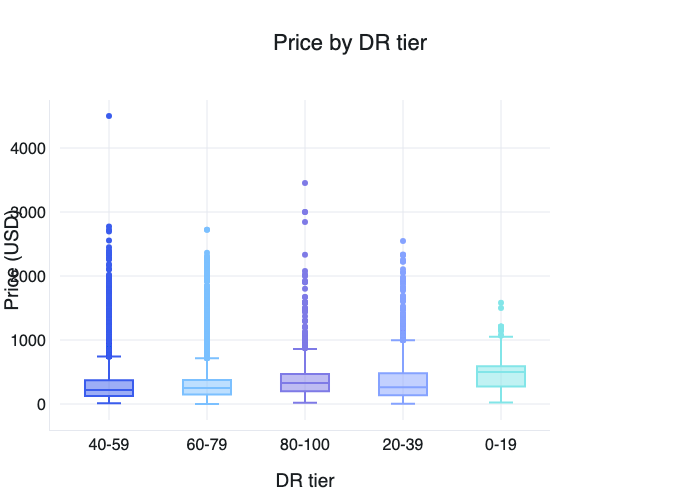
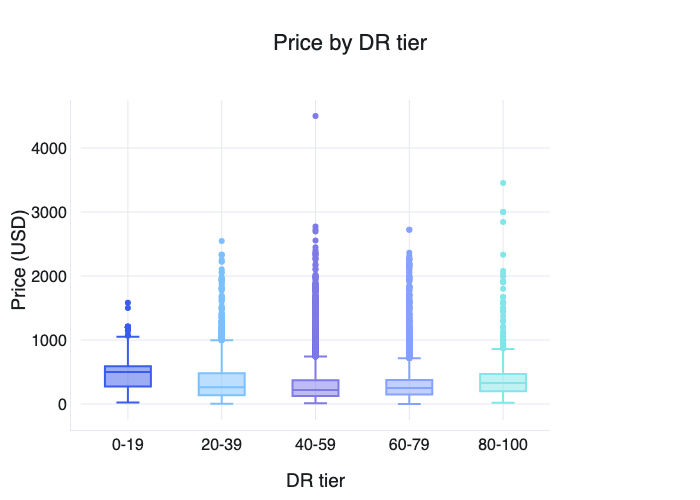
fix: automargin on all axes, fix tier ordering in box plots
- Added automargin=True to all x/y axes in _apply_base_layout across
  distributions, importance, and models plot modules
- Fixed DR/CF/TF tier box plots: tiers now ordered ascending (0-19 to 80-100)
  using pd.Categorical with category_orders
- Regenerated price_by_dr_tier.png with fixes

diff --git a/src/backlink_pricing_model/visualization/distributions_plots.py b/src/backlink_pricing_model/visualization/distributions_plots.py
@@ -39,6 +39,8 @@ def _apply_base_layout(fig: go.Figure, config: PlotConfig | None) -> go.Figure:
             layout_kwargs.update(config.custom_layout)
 
     fig.update_layout(**layout_kwargs)
+    fig.update_xaxes(automargin=True)
+    fig.update_yaxes(automargin=True)
     return fig
 
 
@@ -175,6 +177,10 @@ def plot_price_by_quality_tier(
     labels = ["0-19", "20-39", "40-59", "60-79", "80-100"]
     data["tier"] = pd.cut(data[metric], bins=bins, labels=labels, right=False)
 
+    # Sort by tier order so x-axis is ascending.
+    data["tier"] = pd.Categorical(data["tier"], categories=labels, ordered=True)
+    data = data.sort_values("tier")
+
     default_title = f"Price by {metric.upper()} tier"
     fig = px.box(
         data,
@@ -184,8 +190,13 @@ def plot_price_by_quality_tier(
         labels={"tier": f"{metric.upper()} tier", "final_price": "Price (USD)"},
         color="tier",
         color_discrete_sequence=CATEGORICAL_PALETTE,
+        category_orders={"tier": labels},
     )
-    fig.update_layout(showlegend=False)
+    fig.update_layout(
+        showlegend=False,
+        yaxis={"automargin": True},
+        margin={"l": 80, "r": 30, "t": 60, "b": 60},
+    )
     _apply_base_layout(fig, config)
     _maybe_save(fig, config)
     return fig

diff --git a/src/backlink_pricing_model/visualization/importance_plots.py b/src/backlink_pricing_model/visualization/importance_plots.py
@@ -34,6 +34,8 @@ def _apply_base_layout(fig: go.Figure, config: PlotConfig | None) -> go.Figure:
             layout_kwargs.update(config.custom_layout)
 
     fig.update_layout(**layout_kwargs)
+    fig.update_xaxes(automargin=True)
+    fig.update_yaxes(automargin=True)
     return fig
 
 

diff --git a/src/backlink_pricing_model/visualization/models_plots.py b/src/backlink_pricing_model/visualization/models_plots.py
@@ -39,6 +39,8 @@ def _apply_base_layout(fig: go.Figure, config: PlotConfig | None) -> go.Figure:
             layout_kwargs.update(config.custom_layout)
 
     fig.update_layout(**layout_kwargs)
+    fig.update_xaxes(automargin=True)
+    fig.update_yaxes(automargin=True)
     return fig
 
 
